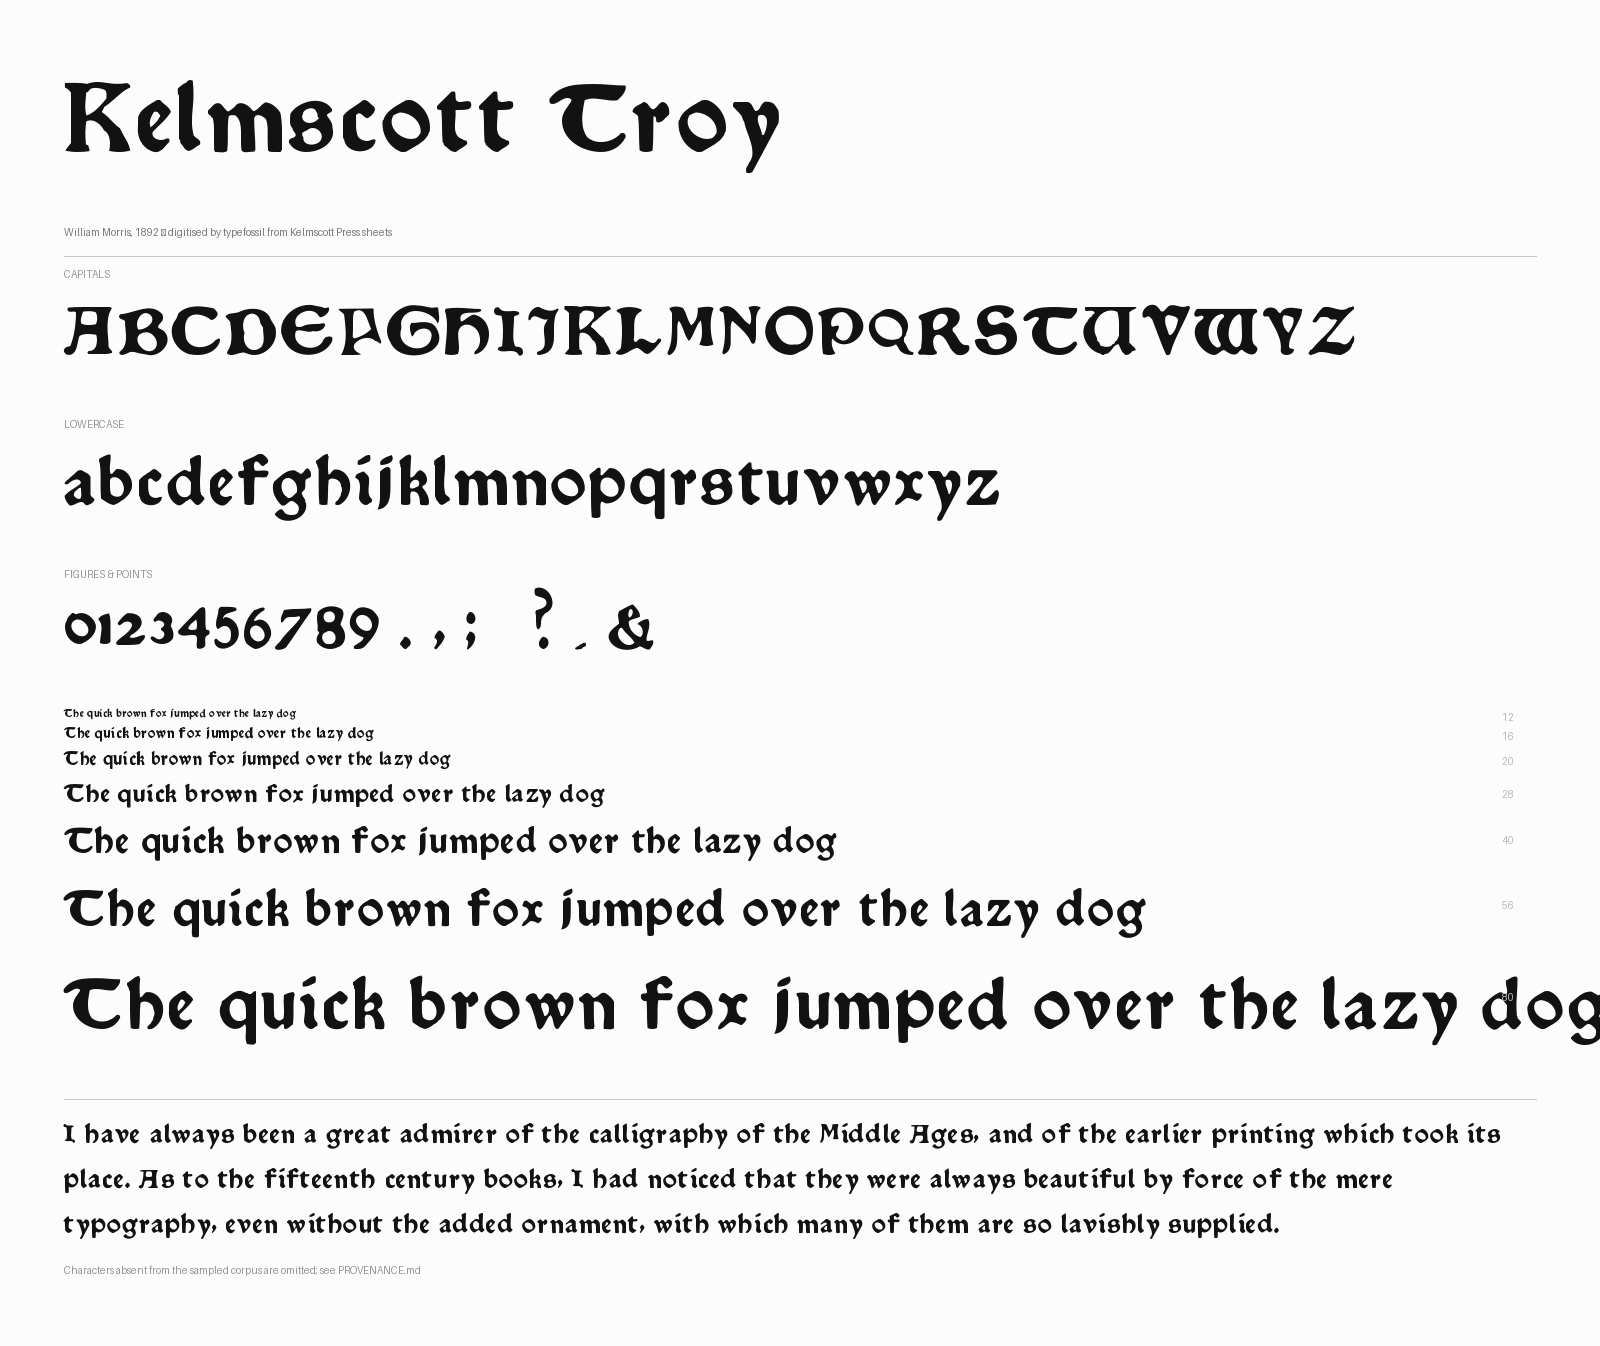
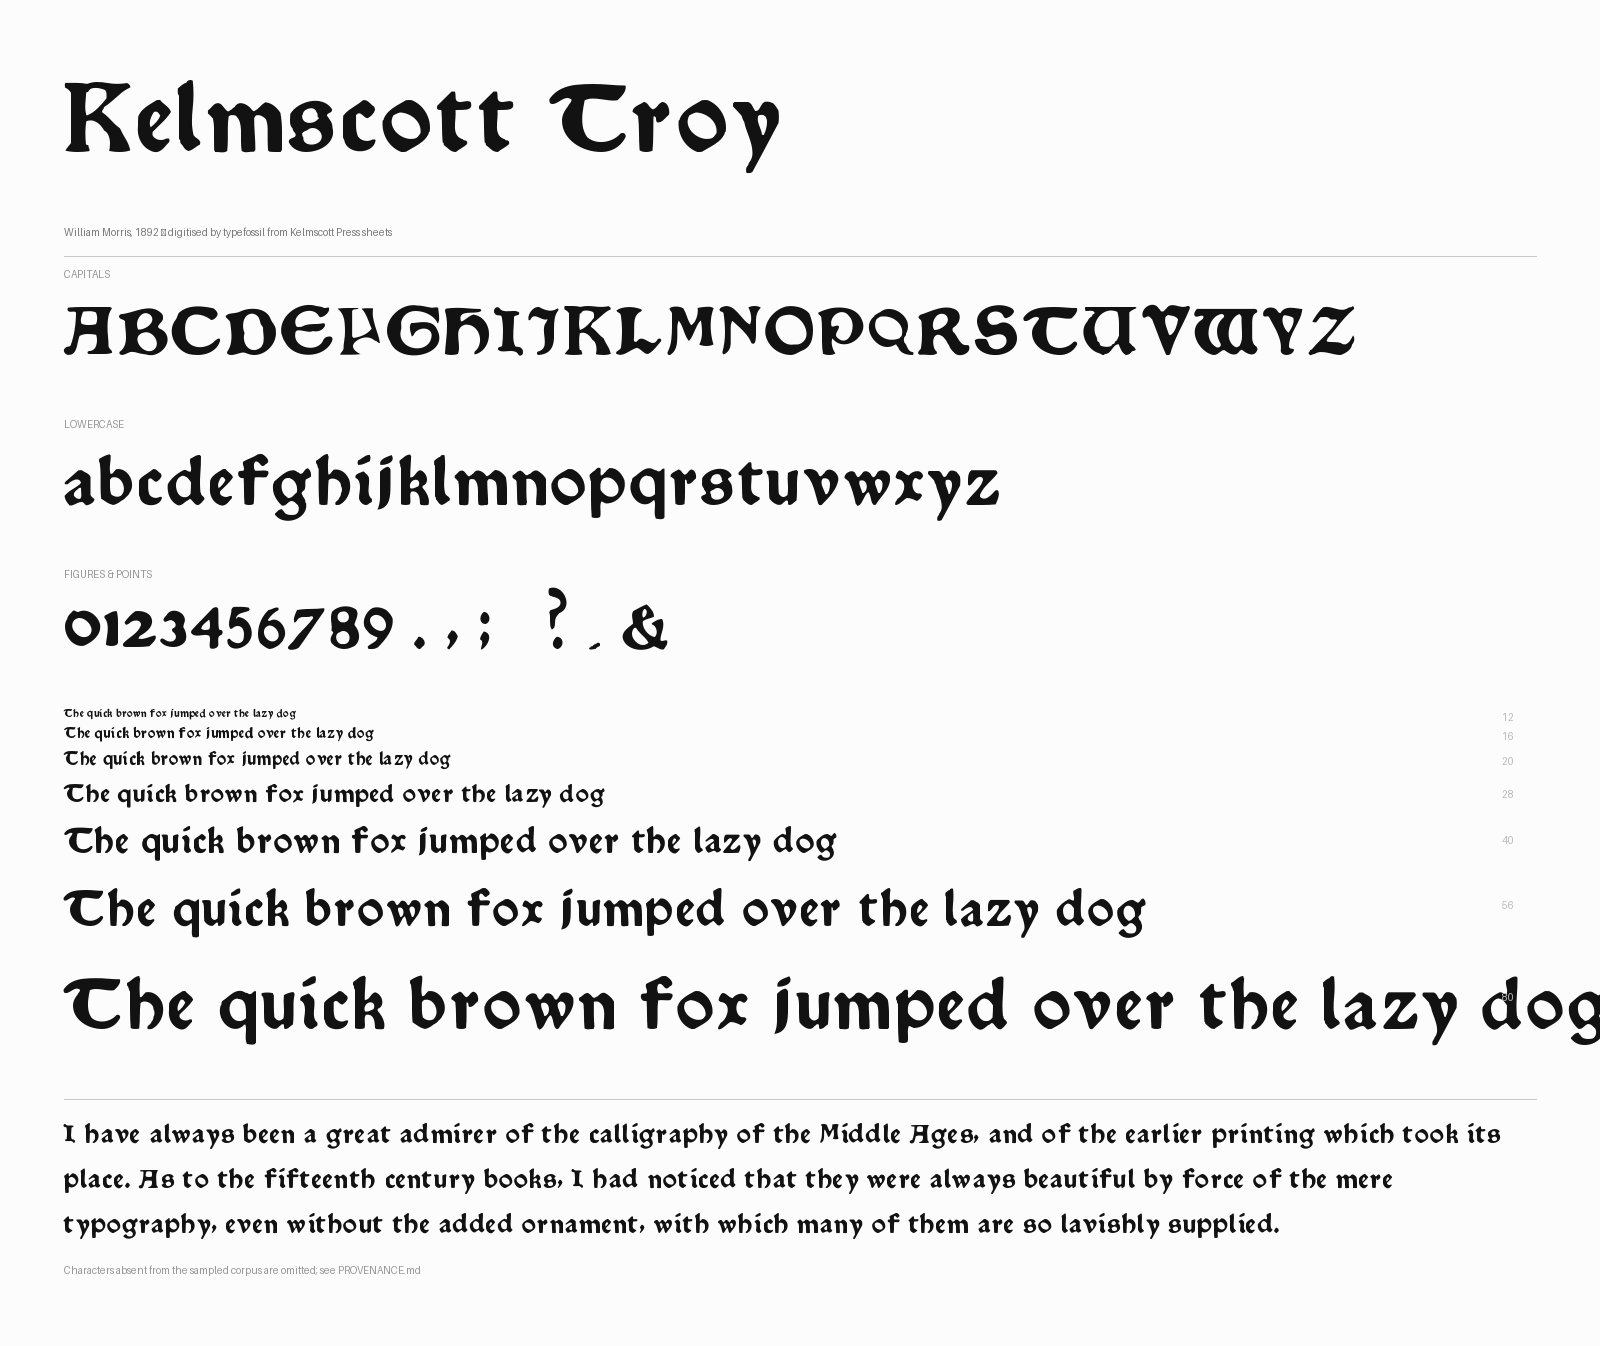
Scale up the small figures, thin F further, and close out capital X
The x-height figures are brought up 14%. This scales them rather than redrawing
them, so their proportions and their weight relationship to the tall figures
are untouched; they simply stop reading as a different size of type when a row
of figures is set on its own.

Capital X is now closed out with the routes written down rather than asserted,
because the reasoning matters more than the conclusion. Godefrey is the closest
miss and the most instructive: its chapter numbering does pass ten, so the
letter *is* printed -- but as "capitulo Cxij", a capital C with lowercase xij.
Caxton sets the hundreds as a capital and everything below in lowercase. So the
corpus counts high enough; it just never counts high enough in capitals. The
Chaucer's colophon, the last plausible place, dates itself in arabic.

Claude-Session: https://claude.ai/code/session_01T9i7wGxk73ZqUthNZ1CcxZ

Changed region(s): [[0.0312, 0.4368, 0.3125, 0.4993], [0.3125, 0.4368, 0.4375, 0.4993]]

diff --git a/typefossil/compose.py b/typefossil/compose.py
@@ -406,7 +406,7 @@ FIGURE_DESCENDING = set("4579")
 
 
 def seat_figures(masters: dict, baseline: int, x_height: int,
-                 centre_small: bool = False) -> dict:
+                 centre_small: bool = False, small_scale: float = 1.0) -> dict:
     """Regularise old-style figures without flattening them.
 
     Old-style figures are *meant* to sit at three different heights, so they
@@ -482,6 +482,14 @@ def seat_figures(masters: dict, baseline: int, x_height: int,
             if f is not None:
                 m = shift(m, baseline - f, 0)
         out[ch] = m
+
+    if small_scale != 1.0:
+        # The x-height figures can be brought up a little without touching
+        # their design: this scales them, it does not redraw them, so their
+        # proportions and weight relationship to the tall figures are preserved.
+        for ch in sorted(FIGURE_XHEIGHT):
+            if ch in out:
+                out[ch] = soften(scale(out[ch], small_scale, baseline, order=3), 0.4)
 
     if centre_small:
         # Optional: lift the small figures so they sit centred against the tall

diff --git a/PROVENANCE.md b/PROVENANCE.md
@@ -101,13 +101,23 @@ fraction to a leaf number, put it at leaves 414–442.
 
 **Still absent**: capital `X`, and `! " ' ( ) :`.
 
-Capital `X` is not printed in this volume, and that was established rather than
-assumed. Roman numerals were the obvious hope -- `X` is ten -- but the book's
-numbering never reaches it in a form that survives: Boece and Troilus run Books
-I-V, and the Astrolabe numbers its forty-odd conclusions in *arabic* figures,
-which is where this font's digits come from. Middle English has no `X`-initial
-words. Every apparent `X` in the OCR is an `I` misread: the running head the
-transcription gives as "Book XX" reads **Book II** on the page.
+Capital `X` is not printed in the sampled corpus, and every route to it was
+checked rather than assumed:
+
+| Where a capital `X` might appear | What is actually there |
+|---|---|
+| Book numbering | Boece and Troilus run Books I-V |
+| Prose and metre headings | red Latin incipits, not numerals; the few numbered labels reach VI |
+| The Astrolabe's forty-odd conclusions | *arabic* figures -- which is where this font's digits come from |
+| Godefrey's chapter numbers | roman, and they pass a hundred, but set as "capitulo Cxij": capital C, **lowercase** xij |
+| The Chaucer's colophon | dates itself "the 8th day of May, 1896" -- arabic |
+| Words beginning with `X` | Middle English has none |
+
+Note the Godefrey case, which is the closest miss: the numbering does reach and
+pass ten, so the letter is printed -- as a *lowercase* `x`, which this font
+already has from body text. Every apparent capital `X` in the OCR is an `I`
+misread; the running head the transcription gives as "Book XX" reads **Book II**
+on the page.
 
 Capital `F` took two attempts and the first was wrong. Troy sets a lowercase `f`
 even at the start of a line -- "ful sykerly they slepten" -- so the capital
